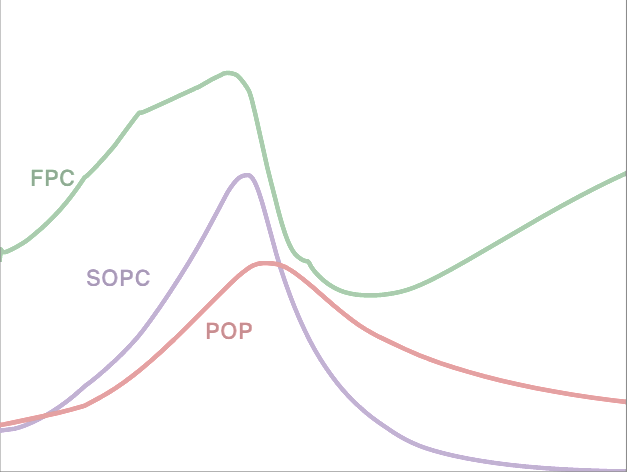
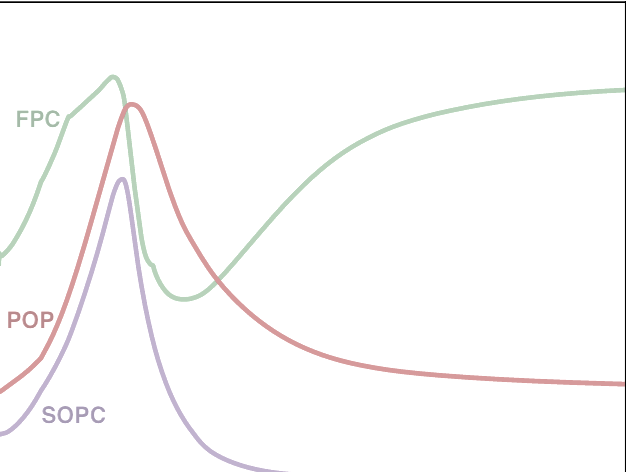
Nya bakgrunder

diff --git a/example_world3_standard.py b/example_world3_standard.py
@@ -31,21 +31,21 @@ plt.savefig("fig_world3_standard_POP_IO_PPOLX.pdf")
 """
 plot_world_variables(
     world3.time,
-    [world3.fpc, world3.sopc, world3.pop,],
+    [world3.fpc, world3.sopc, world3.pop],
     ["FPC\n      [ve kg/py]", "SOPC\n[$/py]", "POP\n[p]"],
-    [[0,0.6e3], [0,1e3], [0, 16e9]],
+    [[0,0.6e3], [0,1e3], [0, 9e9]],
     #img_background="./img/fig7-7.png",
     figsize=(7, 5),
     #title="World3 standard run - POP",
 )
 plt.savefig("fig_world3_standard_POP_SO_F.pdf")
-"""
 
+"""
 plot_world_variables(
     world3.time,
     [world3.nrfr, world3.pop],
     ["NRFR\n[]", "POP\n[p]"],
-    [[0,1], [0, 16e9]],
+    [[0,1], [0, 9e9]],
     #img_background="./img/fig7-7.png",
     figsize=(7, 5),
     #title="World3 standard run - POP",
